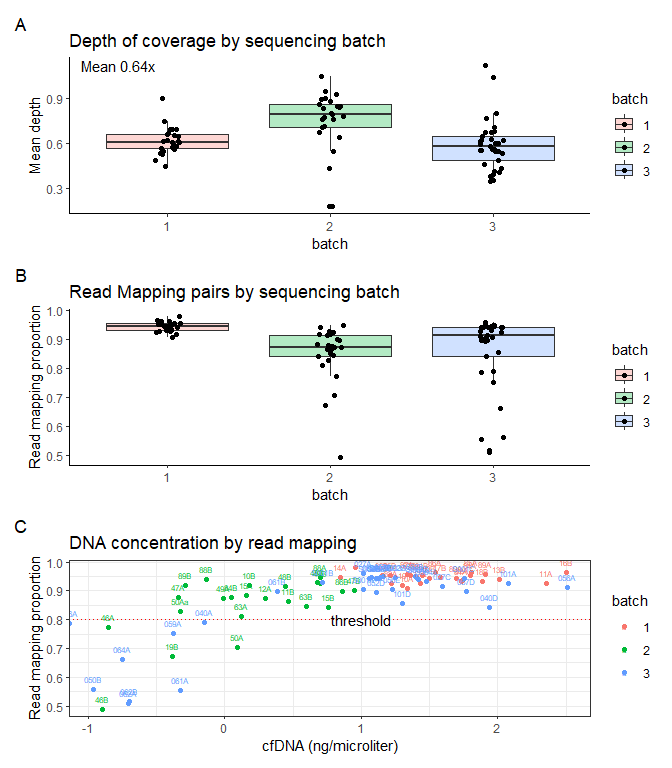
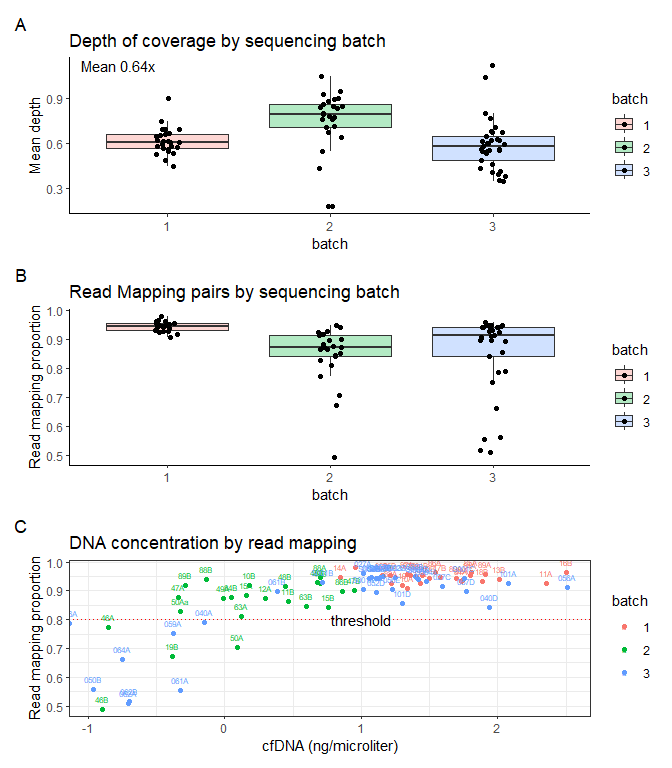
first commit

diff --git a/griffin_analysis/01_Supplementary_script_preprocessing_stats.md b/griffin_analysis/01_Supplementary_script_preprocessing_stats.md
@@ -1,20 +1,9 @@
----
-title: "Supplementary 1 - Preprocessing statistics"
-author: "Glen Roarke"
-date: "2023-08-09"
-output:
-  html_document:
-    keep_md: true
-    toc: yes
-    toc_depth: 3
-    toc_float: yes
-    number_sections: yes
-    fig_caption: yes
+Supplementary 1 - Preprocessing statistics
+================
+Glen Roarke
+2023-08-09
 
----
-
-
-```r
+``` r
 install.packages("vroom")
 install.packages("tidyverse")
 install.packages("ggplot2")
@@ -22,9 +11,7 @@ install.packages("stringr")
 install.packages("patchwork")
 ```
 
-
-
-```r
+``` r
 knitr::opts_chunk$set(echo = TRUE)
 
 library(vroom)
@@ -33,97 +20,86 @@ library(tidyverse)
 library(patchwork)
 ```
 
-
 # Import and manipulate
 
-The preprocessing results are merged together to compare sequencing information for each batch.
+The preprocessing results are merged together to compare sequencing
+information for each batch.
 
-
-```r
+``` r
 #input of b2 annotation
 b1_preproc <- vroom("inputs/Batch1_preprocessing_stats_2023-06-27_11-43-51.csv")
 ```
 
-```
-## Rows: 25 Columns: 6
-## ── Column specification ────────────────────────────────────────────────────────
-## Delimiter: ","
-## chr (1): sample_id
-## dbl (5): before_filtering, after_filtering, Mapped_read_pairs, meandepth, co...
-## 
-## ℹ Use `spec()` to retrieve the full column specification for this data.
-## ℹ Specify the column types or set `show_col_types = FALSE` to quiet this message.
-```
+    ## Rows: 25 Columns: 6
+    ## ── Column specification ────────────────────────────────────────────────────────
+    ## Delimiter: ","
+    ## chr (1): sample_id
+    ## dbl (5): before_filtering, after_filtering, Mapped_read_pairs, meandepth, co...
+    ## 
+    ## ℹ Use `spec()` to retrieve the full column specification for this data.
+    ## ℹ Specify the column types or set `show_col_types = FALSE` to quiet this message.
 
-```r
+``` r
 b2_preproc <- vroom("inputs/Batch2_preprocessing_stats_2023-06-27_11-48-42.csv")
 ```
 
-```
-## Rows: 25 Columns: 6
-## ── Column specification ────────────────────────────────────────────────────────
-## Delimiter: ","
-## chr (1): sample_id
-## dbl (5): before_filtering, after_filtering, Mapped_read_pairs, meandepth, co...
-## 
-## ℹ Use `spec()` to retrieve the full column specification for this data.
-## ℹ Specify the column types or set `show_col_types = FALSE` to quiet this message.
-```
+    ## Rows: 25 Columns: 6
+    ## ── Column specification ────────────────────────────────────────────────────────
+    ## Delimiter: ","
+    ## chr (1): sample_id
+    ## dbl (5): before_filtering, after_filtering, Mapped_read_pairs, meandepth, co...
+    ## 
+    ## ℹ Use `spec()` to retrieve the full column specification for this data.
+    ## ℹ Specify the column types or set `show_col_types = FALSE` to quiet this message.
 
-```r
+``` r
 b3_preproc <- vroom("inputs/Batch3_preprocessing_stats_2023-06-27_11-53-18.csv")
 ```
 
-```
-## Rows: 33 Columns: 6
-## ── Column specification ────────────────────────────────────────────────────────
-## Delimiter: ","
-## chr (1): sample_id
-## dbl (5): before_filtering, after_filtering, Mapped_read_pairs, meandepth, co...
-## 
-## ℹ Use `spec()` to retrieve the full column specification for this data.
-## ℹ Specify the column types or set `show_col_types = FALSE` to quiet this message.
-```
+    ## Rows: 33 Columns: 6
+    ## ── Column specification ────────────────────────────────────────────────────────
+    ## Delimiter: ","
+    ## chr (1): sample_id
+    ## dbl (5): before_filtering, after_filtering, Mapped_read_pairs, meandepth, co...
+    ## 
+    ## ℹ Use `spec()` to retrieve the full column specification for this data.
+    ## ℹ Specify the column types or set `show_col_types = FALSE` to quiet this message.
 
-```r
+``` r
 sample_data <- vroom("inputs/sample_data.csv")
 ```
 
-```
-## Rows: 83 Columns: 16
-## ── Column specification ────────────────────────────────────────────────────────
-## Delimiter: ","
-## chr  (3): Sample, ExtractionDate, ExtractionOrder
-## dbl (13): Batch, DaysTillQubit, QubitPreClean, TapestationPostClean, FinalLi...
-## 
-## ℹ Use `spec()` to retrieve the full column specification for this data.
-## ℹ Specify the column types or set `show_col_types = FALSE` to quiet this message.
-```
+    ## Rows: 83 Columns: 16
+    ## ── Column specification ────────────────────────────────────────────────────────
+    ## Delimiter: ","
+    ## chr  (3): Sample, ExtractionDate, ExtractionOrder
+    ## dbl (13): Batch, DaysTillQubit, QubitPreClean, TapestationPostClean, FinalLi...
+    ## 
+    ## ℹ Use `spec()` to retrieve the full column specification for this data.
+    ## ℹ Specify the column types or set `show_col_types = FALSE` to quiet this message.
 
-```r
+``` r
 dna_conc <- sample_data %>% select(Sample ,QubitPreClean, TapestationPostClean, FinalLibraryConc, TotalDNAForLibPrep)
 
 dna_conc
 ```
 
-```
-## # A tibble: 83 × 5
-##    Sample QubitPreClean TapestationPostClean FinalLibraryConc TotalDNAForLibPrep
-##    <chr>          <dbl>                <dbl>            <dbl>              <dbl>
-##  1 10A             3.32                1.22              47.5              22.0 
-##  2 11A             4.74               12.7               55               229.  
-##  3 12B             0.82                0.505             27.3               9.09
-##  4 13B             2.79                5.71              47.8             103.  
-##  5 14A             0.6                 0.388             17.9               6.98
-##  6 16B            14.7                17.7               50               319.  
-##  7 17A             2.09                1.52              27                27.4 
-##  8 17B             1.86                2.12              36                38.2 
-##  9 18A             2.09                1.38              40.4              24.8 
-## 10 18B             2.1                 4.28              41.9              77.0 
-## # … with 73 more rows
-```
+    ## # A tibble: 83 × 5
+    ##    Sample QubitPreClean TapestationPostClean FinalLibraryConc TotalDNAForLibPrep
+    ##    <chr>          <dbl>                <dbl>            <dbl>              <dbl>
+    ##  1 10A             3.32                1.22              47.5              22.0 
+    ##  2 11A             4.74               12.7               55               229.  
+    ##  3 12B             0.82                0.505             27.3               9.09
+    ##  4 13B             2.79                5.71              47.8             103.  
+    ##  5 14A             0.6                 0.388             17.9               6.98
+    ##  6 16B            14.7                17.7               50               319.  
+    ##  7 17A             2.09                1.52              27                27.4 
+    ##  8 17B             1.86                2.12              36                38.2 
+    ##  9 18A             2.09                1.38              40.4              24.8 
+    ## 10 18B             2.1                 4.28              41.9              77.0 
+    ## # … with 73 more rows
 
-```r
+``` r
 # add in batch information as a factor
 b1_preproc$batch <- as.factor(1)
 b2_preproc$batch <- as.factor(2)
@@ -135,9 +111,7 @@ preproc_all <- bind_rows(b1_preproc, b2_preproc, b3_preproc)
 preproc_all_dna <- preproc_all %>% inner_join(dna_conc, by = c("sample_id" = "Sample"))
 ```
 
-
-
-```r
+``` r
 # A - read mapping by batch 
 
 read_map.p <-  ggplot(preproc_all, aes(y = Mapped_read_pairs, x = batch, fill = batch)) +
@@ -176,45 +150,32 @@ dna_conc.p <- ggplot(preproc_all_dna, aes(y = Mapped_read_pairs, x = log10(Total
   xlab("cfDNA (ng/microliter)")
 ```
 
-
-
-```r
+``` r
 ### merge all graphs using patchwork
 
 (depth.p / read_map.p / dna_conc.p)  + plot_annotation(tag_levels = "A")
 ```
 
-```
-## Warning: Removed 2 rows containing missing values (`geom_point()`).
-```
+    ## Warning: Removed 2 rows containing missing values (`geom_point()`).
 
-```
-## Warning: Removed 2 rows containing missing values (`geom_text()`).
-```
+    ## Warning: Removed 2 rows containing missing values (`geom_text()`).
 
-![](01_Supplementary_script_preprocessing_stats_files/figure-html/pathwork plots-1.png)<!-- -->
+![](01_Supplementary_script_preprocessing_stats_files/figure-gfm/pathwork%20plots-1.png)<!-- -->
 
-```r
+``` r
 ggsave("final_figures/Figure_2_ctDNA_preprocessing.pdf", height = 8 , width = 6 )
 ```
 
-```
-## Warning: Removed 2 rows containing missing values (`geom_point()`).
-## Removed 2 rows containing missing values (`geom_text()`).
-```
-
-
-
+    ## Warning: Removed 2 rows containing missing values (`geom_point()`).
+    ## Removed 2 rows containing missing values (`geom_text()`).
 
 # sessionInfo
 
-```r
+``` r
 installed.packages()[names(sessionInfo()$otherPkgs), "Version"]
 ```
 
-```
-##    patchwork      forcats      stringr        dplyr        purrr        readr 
-##      "1.1.2"      "0.5.2"      "1.4.1"     "1.0.10"      "0.3.5"      "2.1.3" 
-##        tidyr       tibble    tidyverse      ggplot2        vroom 
-##      "1.2.1"      "3.1.8"      "1.3.2"      "3.4.0" "1.6.0.9000"
-```
+    ##    patchwork      forcats      stringr        dplyr        purrr        readr 
+    ##      "1.1.2"      "0.5.2"      "1.4.1"     "1.0.10"      "0.3.5"      "2.1.3" 
+    ##        tidyr       tibble    tidyverse      ggplot2        vroom 
+    ##      "1.2.1"      "3.1.8"      "1.3.2"      "3.4.0" "1.6.0.9000"
